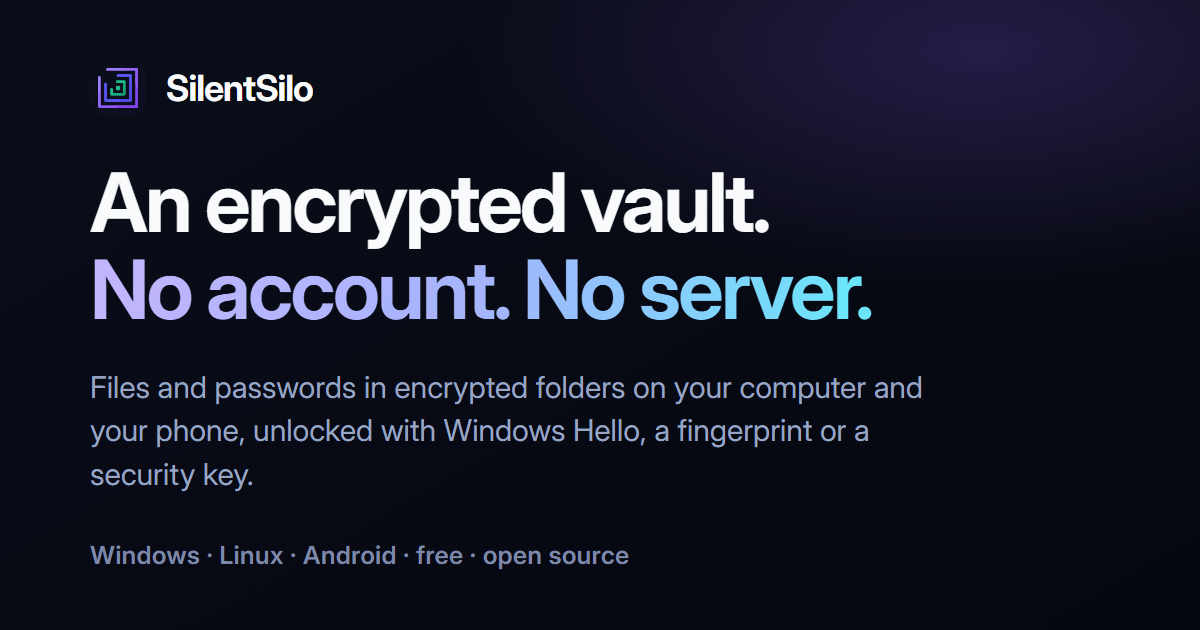
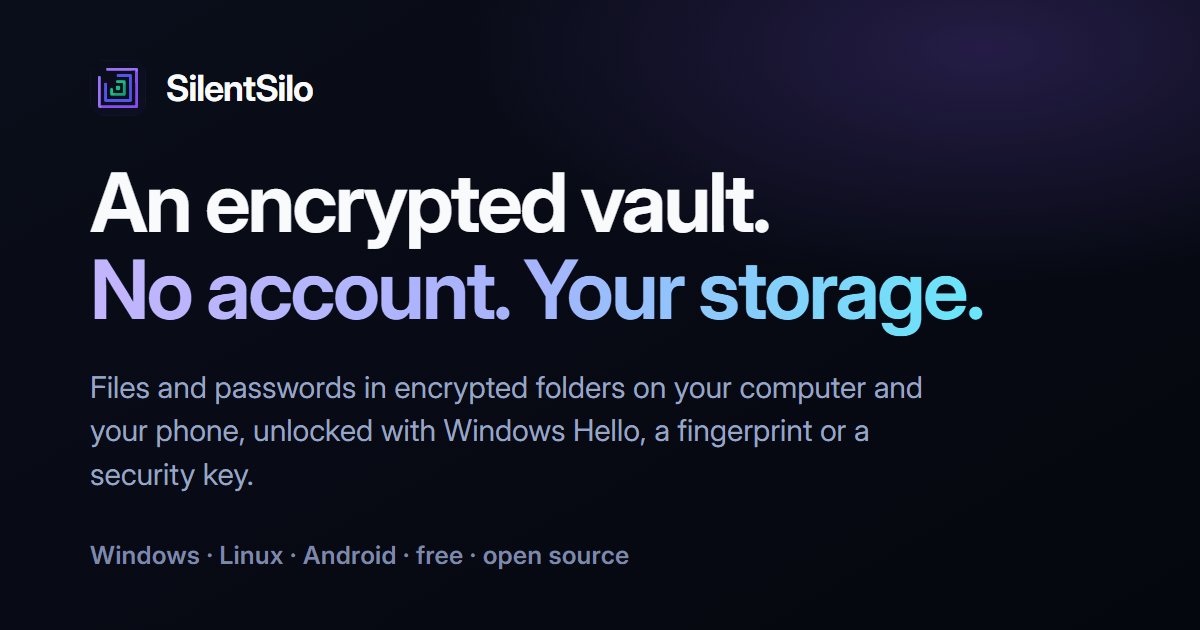
Privacy and download checks, plainer claims
No nginx access log, HSTS, the update download from GitHub in the
privacy policy, working signature check steps, and an audit script that
fails when npm audit cannot run.

Changed region(s): [[0.4317, 0.4222, 0.8325, 0.5429]]

diff --git a/app/security/page.tsx b/app/security/page.tsx
@@ -1,6 +1,17 @@
 import type { Metadata } from "next";
 import Link from "next/link";
-import { MOBILE_REPO, PLAY_STORE, RELEASES_REPO } from "../links";
+import {
+  LATEST_INSTALLER_NAME,
+  LINUX_PACKAGES,
+  MOBILE_REPO,
+  PLAY_STORE,
+  RELEASES,
+  RELEASES_REPO,
+} from "../links";
+
+/** The minisign public key, as in core's SIGNING-PUBKEY.txt. */
+const UPDATE_PUBKEY = "RWS3eVy3IDLlean9BrZWUaxbTyj+oKfoc4g+IJ6xaAhUwbV8v8WnDbZP";
+const LINUX_DEB = LINUX_PACKAGES[0].file;
 
 export const metadata: Metadata = {
   title: "Security",
@@ -61,12 +72,13 @@ export default function Security() {
         update check, at most once a day, carrying the version and platform
         and nothing else. It can be turned off in Settings. Everything else
         the app does over the network is the sync you configured yourself,
+        the download from GitHub when you choose to install an update,
         plus two things that involve neither us nor your storage and that
         both stay silent until you ask for them: the breach check in Health,
         which runs only when you press it and sends five characters of a
         password hash to Have I Been Pwned, and site icons in Passwords,
         off by default, which fetch each saved site&apos;s own icon from that
-        site. The <Link href="/privacy/">privacy page</Link> lists all four.
+        site. The <Link href="/privacy/">privacy page</Link> lists them all.
       </p>
       <p>
         <strong>Your storage provider:</strong> ciphertext blobs, encrypted
@@ -212,7 +224,7 @@ export default function Security() {
         are stated limits, not surprises.
       </p>
 
-      <h2>Checking what you downloaded</h2>
+      <h2 id="checking-what-you-downloaded">Checking what you downloaded</h2>
       <p>
         The installer and the extraction tool are published with a signature
         file beside them. The Windows installer is built on a machine here
@@ -234,11 +246,42 @@ export default function Security() {
         <a href="https://github.com/silentsilo/desktop/blob/main/src-tauri/tauri.conf.json">
           tauri.conf.json
         </a>
-        , and{" "}
-        <a href="https://jedisct1.github.io/minisign/">minisign</a> checks a
-        download against it in one command. The app carries that same key
-        compiled in and verifies every update before installing it, so the
-        release endpoint cannot serve you code that was not signed with it.
+        . The app carries that same key compiled in and verifies every update
+        before installing it, so the release endpoint cannot serve you code
+        that was not signed with it.
+      </p>
+      <p>
+        To check a file yourself, download it and its <code>.sig</code> from
+        the <a href={RELEASES}>release page</a>. The <code>.sig</code> is a{" "}
+        <a href="https://jedisct1.github.io/minisign/">minisign</a> signature
+        wrapped in base64, so decode it first, then verify. On Linux or macOS:
+      </p>
+      <pre>
+        <code>
+          {`base64 -d ${LINUX_DEB}.sig > ${LINUX_DEB}.minisig
+minisign -Vm ${LINUX_DEB} -x ${LINUX_DEB}.minisig \\
+  -P ${UPDATE_PUBKEY}`}
+        </code>
+      </pre>
+      <p>On Windows, in PowerShell, from the folder holding both files:</p>
+      <pre>
+        <code>
+          {`[IO.File]::WriteAllBytes("$PWD\\${LATEST_INSTALLER_NAME}.minisig",
+  [Convert]::FromBase64String((Get-Content ${LATEST_INSTALLER_NAME}.sig -Raw)))
+minisign -Vm ${LATEST_INSTALLER_NAME} -x ${LATEST_INSTALLER_NAME}.minisig -P ${UPDATE_PUBKEY}`}
+        </code>
+      </pre>
+      <p>
+        A good file prints <code>Signature and comment signature verified</code>,
+        and the trusted comment below it names the file that was signed. If it
+        prints anything else, do not run the file.
+      </p>
+      <p>
+        The Windows installer and the Windows extraction tool also carry an
+        Authenticode signature. Right-click the file, open Properties, then
+        Digital Signatures: the signer is SOFTWARE HIVE S.R.L. In PowerShell,{" "}
+        <code>Get-AuthenticodeSignature .\{LATEST_INSTALLER_NAME}</code> should
+        report <code>Valid</code> with that name in the signer certificate.
       </p>
       <p>
         The Android app comes from{" "}

diff --git a/app/tutorials/copies-nothing-can-erase/page.tsx b/app/tutorials/copies-nothing-can-erase/page.tsx
@@ -167,8 +167,9 @@ export default function ImmutableCopies() {
       <p>
         The retention window runs from when each object is{" "}
         <strong>written</strong>, not from when something tries to delete it.
-        With a fourteen day window, everything written in the last fortnight
-        cannot be destroyed by anybody. Something written six months ago is
+        With a fourteen day window, nothing written in the last fortnight can
+        be deleted through the storage, by you or by anyone holding your
+        credentials. Something written six months ago is
         outside its window: an accidental delete leaves it recoverable for as
         long as your lifecycle rule keeps noncurrent versions, but a
         deliberate one, made with stolen credentials that name the version
@@ -197,7 +198,8 @@ export default function ImmutableCopies() {
         <strong>Compliance mode binds you too.</strong> If you put something
         in that bucket that must genuinely be erased, a subject access
         request, a file uploaded by mistake, you cannot erase it before the
-        retention expires. Nobody can. Choose the window knowing that, and
+        retention expires, and neither can anyone else with access to the
+        bucket. Choose the window knowing that, and
         choose it short rather than long.
       </p>
 

diff --git a/app/privacy/page.tsx b/app/privacy/page.tsx
@@ -1,5 +1,5 @@
 import type { Metadata } from "next";
-import { REPO, RELEASES_REPO } from "../links";
+import { REPO, RELEASES, RELEASES_REPO } from "../links";
 
 export const metadata: Metadata = {
   title: "Privacy",
@@ -70,6 +70,15 @@ export default function Privacy() {
           and sees your IP address. SilentSilo does not receive it or keep
           it. The check can be turned off in Settings, and turning it off
           removes you from the count entirely.
+        </li>
+        <li>
+          <strong>Downloading an update</strong> (desktop app only), only when
+          you choose to install one. The file comes from GitHub, from the
+          release page of{" "}
+          <a href={RELEASES}>silentsilo/desktop</a>
+          . GitHub sees your IP address and which file you downloaded, as it
+          does for any download from that page. The app checks the
+          file&apos;s signature before installing it.
         </li>
         <li>
           <strong>The breach check</strong>, only when you press its button in

diff --git a/app/europe/page.tsx b/app/europe/page.tsx
@@ -142,8 +142,8 @@ export default function Europe() {
       <p className="lead">
         For people and companies in the EU who want to know where their files
         end up and who could be asked for them. SilentSilo is made by
-        Software Hive S.R.L., a company in Romania, and runs no server of its
-        own: where your silo lives is your choice, and this page goes through
+        Software Hive S.R.L., a company in Romania, and keeps none of your data
+        on a server of its own: where your silo lives is your choice, and this page goes through
         the European ones.
       </p>
 

diff --git a/app/download/page.tsx b/app/download/page.tsx
@@ -244,7 +244,8 @@ export default function Download() {
                 <dt>Signature</dt>
                 <dd>
                   <a href={LATEST_INSTALLER_SIG}>{LATEST_INSTALLER_NAME}.sig</a> (minisign,
-                  the key the app checks updates against)
+                  the key the app checks updates against).{" "}
+                  <Link href="/security/#checking-what-you-downloaded">How to check it</Link>
                 </dd>
               </dl>
             </div>

diff --git a/app/layout.tsx b/app/layout.tsx
@@ -10,7 +10,7 @@ import { CORE_REPO, DOC_CRYPTO, DOC_FORMATS, MOBILE_REPO, PLAY_STORE, RELEASED, 
 
 export const metadata: Metadata = {
   title: {
-    default: "SilentSilo: an encrypted vault with no account and no server",
+    default: "SilentSilo: an encrypted vault with no account, on storage you choose",
     template: "%s · SilentSilo",
   },
   description:
